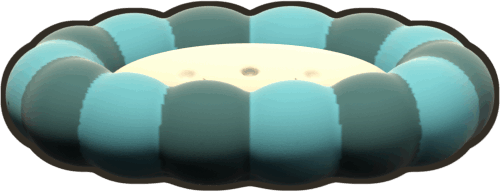
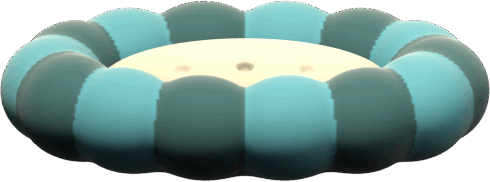
Art round three: welded meshes, sea waves, calmer grout, no ink on sculpted sprites
- sdf._weld: marching cubes emits a point twice wherever the surface passes
  exactly through a grid vertex, plus a sliver triangle; the Home chair had
  1,629 duplicated points and 3,734 zero-area faces, and smooth shading
  broke at each -- rings of dark speckles on the arms. Merged and dropped
  for every kit object (chair now 8 residual, from 5-decimal output).
- Beach: moulded wave crests (wave_*) across the sea, smaller and sparser
  with distance; far hills at 0.82 of their colour.
- Town: grout a touch darker than the tiles and soft-edged instead of a
  light grid.
- ink.SCULPTED_PATHS: the sculpted Home furniture takes no promotion
  outline; it was the only inked thing in a room where Barkly has none.
  sync-aspects restated the six locks the thinner sprites moved.

Claude-Session: https://claude.ai/code/session_01CJqbtqFeDnedgUGEMwdJjE

diff --git a/barkly/app/src/ui/ItemIcon.tsx b/barkly/app/src/ui/ItemIcon.tsx
@@ -50,7 +50,7 @@ const RENDERED: Record<string, { source: number; aspect: number }> = {
   collar_gold: { source: require('../../assets/world/item/collar_gold.png'), aspect: 224 / 139 },
   kit_bowl: { source: require('../../assets/world/item/kit_bowl.png'), aspect: 224 / 130 },
   kit_stick: { source: require('../../assets/world/item/kit_stick.png'), aspect: 224 / 111 },
-  home_bed: { source: require('../../assets/world/home/props/bed.png'), aspect: 500 / 192 },
+  home_bed: { source: require('../../assets/world/home/props/bed.png'), aspect: 490 / 182 },
 };
 
 /** Slightly darker sibling of a hex, for the shaded side of a shape. */

diff --git a/barkly/app/src/ui/BarklyKit.tsx b/barkly/app/src/ui/BarklyKit.tsx
@@ -24,7 +24,7 @@ const KIT_ART: Record<string, { source: number; width: number; aspect: number }>
   stick: { source: require('../../assets/world/item/kit_stick.png'), width: 80, aspect: 224 / 111 },
   ball: { source: require('../../assets/world/item/toy_ball.png'), width: 54, aspect: 224 / 208 },
   rope: { source: require('../../assets/world/item/toy_rope.png'), width: 80, aspect: 224 / 102 },
-  bed: { source: require('../../assets/world/home/props/bed.png'), width: 86, aspect: 500 / 192 },
+  bed: { source: require('../../assets/world/home/props/bed.png'), width: 86, aspect: 490 / 182 },
 };
 
 /**

diff --git a/barkly/app/src/ui/scenes/HomeRenderedScene.tsx b/barkly/app/src/ui/scenes/HomeRenderedScene.tsx
@@ -64,10 +64,10 @@ const NEAR_FLOOR = require('../../../assets/world/home/props/near_floor.png');
  * and the town's LAMP_ASPECT both exist.
  */
 const WINDOW_FRAME_ASPECT = 466 / 485;
-const CHAIR_ASPECT = 335 / 350;
-const LAMP_ASPECT = 254 / 474;
-const BED_ASPECT = 500 / 192;
-const SHELF_ASPECT = 284 / 425;
+const CHAIR_ASPECT = 327 / 342;
+const LAMP_ASPECT = 248 / 468;
+const BED_ASPECT = 490 / 182;
+const SHELF_ASPECT = 278 / 419;
 
 const NEAR_FLOOR_ASPECT = 654 / 66;
 const PANELLING = require('../../../assets/world/home/props/panelling.png');

diff --git a/barkly/app/tools/blender/world_scene_pack.py b/barkly/app/tools/blender/world_scene_pack.py
@@ -681,9 +681,11 @@ def town():
         plane = ground(_toy(tone("brick", "base"), 1.1, gv), _toy(tone("brick", "base"), 1.2, gv * 1.08), tooth=30.0, bump=0.02)
         # Grout only a step lighter than the tiles and the tiles bigger: with
         # cream grout at 2.2 units the square was a buzzing grid of lines.
+        # Grout a touch DARKER than the tiles, soft-edged: a light grout line
+        # under the toy light read as a bright grid across the whole square.
         plane.data.materials[0] = tile_material("Toy tiles", _toy(tone("brick", "base"), 1.1, gv),
-                                                _toy(tone("brick", "base"), 1.12, gv * 1.07),
-                                                _toy(tone("brick", "lit"), 0.9, gv * 1.02), tile=3.2)
+                                                _toy(tone("brick", "base"), 1.12, gv * 1.06),
+                                                _toy(tone("brick", "base"), 1.05, gv * 0.9), tile=3.2)
     else:
         ground(tone("brick", "base"), tone("brick", "lit"), tooth=30.0, bump=0.07)
     _anchor("stand", 0.0, -3.0)
@@ -834,8 +836,8 @@ def tile_material(name: str, hex_a: str, hex_b: str, hex_grout: str, tile: float
     brick.inputs["Scale"].default_value = 1.0 / tile
     brick.inputs["Brick Width"].default_value = 1.0
     brick.inputs["Row Height"].default_value = 1.0
-    brick.inputs["Mortar Size"].default_value = 0.035
-    brick.inputs["Mortar Smooth"].default_value = 0.6
+    brick.inputs["Mortar Size"].default_value = 0.03
+    brick.inputs["Mortar Smooth"].default_value = 0.85
     brick.inputs["Bias"].default_value = 0.0
     brick.inputs["Color1"].default_value = (*pack.rgb(hex_a), 1.0)
     brick.inputs["Color2"].default_value = (*pack.rgb(hex_b), 1.0)
@@ -1663,6 +1665,15 @@ def beach():
           depth_material("Sea", sea_near, sea_far, self_lit=0.22))
 
     _surf(25.0)
+    if SCULPTED:
+        # Wave crests across the sea, sparser and smaller with distance, so
+        # the water recedes instead of lying there as one flat band.
+        for i in range(22):
+            t, u = _scatter(i + 300)
+            wy = 26.5 + u * 15.0
+            wx = -20.0 + t * 40.0
+            name, flip = _pick("wave", wx, wy)
+            kit(name, wx, wy, 1.25 - u * 0.6, flip=flip)
     _headland(40.0)
 
     # THE BACK OF THE BEACH. Low mounds behind the tide line give the sand a
@@ -1826,7 +1837,8 @@ def _headland(y: float):
     differ.
     """
     if SCULPTED:
-        return kit("headland", 0.0, y)
+        # 0.82: distant land, quieter than anything on the beach.
+        return kit("headland", 0.0, y, tint=0.82)
     # ONE TONE, and this took a second pass to accept. Alternating three
     # steps of the stone ramp across neighbouring mounds rendered a cow-print
     # ridge: adjacent lumps in visibly different colours read as separate

diff --git a/barkly/app/tools/sculpt/kit.py b/barkly/app/tools/sculpt/kit.py
@@ -144,6 +144,7 @@ PAINT.update({
 BRICK, TERRACOTTA, GLOW, WATER, LAMP, DAISY, BLOSSOM, APPLE = range(41, 49)
 # Home's upholstery and plush.
 UPHOLSTERY, SEAT, PILLOW, PLUSH, CUSHION, SHADE, SHELFWOOD, RECESS, BOOK_RED, BOOK_BLUE, PLUSH_LIGHT, BED_CUSHION = range(60, 72)
+WAVE = 72
 PAINT.update({
     BRICK: ramp("brick", ("deep", "shade", "base"), (1.0, 1.0, 1.0)),
     TERRACOTTA: ramp("brick", ("shade", "base", "base"), (1.05, 1.1, 1.05)),
@@ -180,6 +181,8 @@ PAINT.update({
     RECESS: ramp("wood", ("shade", "shade", "base"), (1.0, 1.0, 1.0)),   # deep/deep read as a black hole
     BOOK_RED: ramp("berry", ("shade", "base", "base"), (1.0, 1.0, 1.0)),
     BOOK_BLUE: ramp("sea", ("shade", "base", "base"), (1.0, 1.0, 1.0)),
+    # Moulded wave crests: the sea's own blue a step lighter on top.
+    WAVE: ramp("sea", ("base", "base", "lit"), (1.25, 1.3, 1.2)),
 })
 
 #: Flower heads take their colour from the bed, so they get ids above the rest.
@@ -651,6 +654,17 @@ def headland(seed=0):
     return sdf.sit(sdf.warp(sdf.smooth_union(*mounds, k=0.7), amount=0.15, freq=0.6, seed=seed), k=0.05)
 
 
+def wave(seed):
+    """A moulded wave crest for a toy sea: a low, soft ridge of three or four
+    swells in a row. Dotted across the water, they turn one flat band of blue
+    into a sea -- the way a playset moulds its water."""
+    rng = np.random.default_rng(seed)
+    n = 3 + seed % 2
+    swells = [sdf.place(sdf.ellipsoid((0.75 + rng.uniform(-0.1, 0.15), 0.30, 0.14 + rng.uniform(0, 0.05)), paint=WAVE),
+                        at=(-0.9 * (n - 1) / 2 + i * 0.9, rng.uniform(-0.06, 0.06), 0.0)) for i in range(n)]
+    return sdf.sit(sdf.smooth_union(*swells, k=0.25), k=0.03)
+
+
 def dune(seed):
     """A low dune: a crest, a long windward slope and a short leeward one,
     as one soft mass."""
@@ -877,6 +891,8 @@ for s in range(3):
 KIT["shell"] = (shell, (-0.6, -0.4, -0.05), (0.6, 0.4, 0.25), 0.01)
 KIT["windbreak"] = (windbreak, (-1.9, -0.4, -0.05), (1.9, 0.4, 1.6), 0.018)
 KIT["towel"] = (towel, (-1.1, -2.1, -0.05), (1.1, 2.1, 0.3), 0.02)
+for s in range(3):
+    KIT[f"wave_{s}"] = (lambda s=s: wave(s), (-2.4, -0.6, -0.05), (2.4, 0.6, 0.35), 0.02)
 KIT["headland"] = (headland, (-38.0, -2.8, -0.1), (38.0, 5.2, 2.4), 0.09)
 for s in range(2):
     KIT[f"dune_{s}"] = (lambda s=s: dune(s), (-4.4, -2.4, -0.1), (4.0, 2.4, 1.2), 0.05)

diff --git a/barkly/app/tools/sculpt/sdf.py b/barkly/app/tools/sculpt/sdf.py
@@ -199,6 +199,28 @@ def warp(field, amount=0.08, freq=1.3, seed=0):
 # ------------------------------------------------------------------ meshing
 
 
+def _weld(verts, faces, normals):
+    """Merge duplicate vertices and drop zero-area triangles.
+
+    Marching cubes emits the same point twice wherever the surface passes
+    exactly through a grid vertex, and a sliver triangle between them. The
+    Home chair came out with 1,629 duplicated points and 3,734 zero-area
+    faces; unwelded, smooth shading breaks at every one, and the arm caps
+    rendered with rings of dark speckles.
+    """
+    # 1e-5: the PLY is written to five decimals, so points closer than that
+    # become duplicates in the file even if they were distinct here.
+    key = np.round(verts / 1e-5).astype(np.int64)
+    _, first, inverse = np.unique(key, axis=0, return_index=True, return_inverse=True)
+    inverse = inverse.reshape(-1)
+    verts, normals = verts[first], normals[first]
+    faces = inverse[faces]
+    distinct = (faces[:, 0] != faces[:, 1]) & (faces[:, 1] != faces[:, 2]) & (faces[:, 0] != faces[:, 2])
+    faces = faces[distinct]
+    area = np.linalg.norm(np.cross(verts[faces[:, 1]] - verts[faces[:, 0]], verts[faces[:, 2]] - verts[faces[:, 0]]), axis=1)
+    return verts, faces[area > 1e-12], normals
+
+
 def mesh(field, lo, hi, res=0.03):
     """Marching cubes over the box [lo, hi] at `res` world units per cell."""
     from skimage.measure import marching_cubes
@@ -213,6 +235,7 @@ def mesh(field, lo, hi, res=0.03):
     step = (hi - lo) / (n - 1)
     verts, faces, normals, _ = marching_cubes(vol, 0.0, spacing=tuple(step))
     verts += lo
+    verts, faces, normals = _weld(verts, faces, normals)
     _, paint = field(verts)
     # marching_cubes' normals point down the gradient (into the solid); flip
     # them so +z means "faces the sky".

diff --git a/barkly/app/tools/blender/ink.py b/barkly/app/tools/blender/ink.py
@@ -102,6 +102,14 @@ EXEMPT_PREFIXES = ("sky/",)
 #: And individual props that are, wherever they live.
 EXEMPT_WORDS = ("shadow", "haze", "glow", "surf")
 
+#: SCULPTED props, which carry no drawn edge. Since 2026-09-23 the scene plates
+#: and Home's furniture are sculpted and lit as soft toys (tools/sculpt), and
+#: the plates render with the contour off. The furniture sprites still got a
+#: dark outline at promotion, so in Home the chair and the lamp were the only
+#: inked things in a room where Barkly himself has none. Sculpted art takes
+#: its edge from its own light and occlusion, like the character.
+SCULPTED_PATHS = ("home/chair", "home/lamp", "home/bed", "home/shelf")
+
 
 def contour_on() -> bool:
     """Is the drawn edge switched on? A FUNCTION, deliberately.
@@ -123,6 +131,8 @@ def contour_on() -> bool:
 def takes_ink(path: str) -> bool:
     """Does the prop at this BUILDERS path get an edge at all?"""
     if not CONTOUR:
+        return False
+    if path in SCULPTED_PATHS:
         return False
     if any(path.startswith(prefix) for prefix in EXEMPT_PREFIXES):
         return False

diff --git a/barkly/docs/ART_STYLE.md b/barkly/docs/ART_STYLE.md
@@ -301,6 +301,22 @@ Fixed, from a full-size read of each plate:
 - **Beach:** a deeper toy-blue sea; the far shore is rolling green-topped
   hills, quieted because distance should not shout; pebbles smaller.
 
+### Round three (2026-09-23)
+
+- **Welded meshes.** Marching cubes emits a point twice wherever the surface
+  passes exactly through a grid vertex, plus a sliver triangle between them;
+  the Home chair had 1,629 duplicated points and 3,734 zero-area faces, and
+  smooth shading broke at every one -- the rings of dark speckles on the
+  chair's arms. `sdf._weld` merges and drops them for every kit object.
+- **The sea has waves.** Moulded crests (`wave_*`) dotted across the water,
+  smaller and sparser with distance, instead of one flat blue band.
+- **Town grout** a touch darker than the tiles and soft-edged; a light grout
+  line read as a bright grid across the square.
+- **Far hills** at 0.82 of their colour: distant land is quieter than the
+  beach.
+- **No outline on sculpted sprites.** `ink.SCULPTED_PATHS`: the Home
+  furniture was the only inked thing in a room where Barkly has none.
+
 ## What is blocked, with numbers
 
 `scripts/art-hierarchy.py` measures whether Barkly still reads against his
